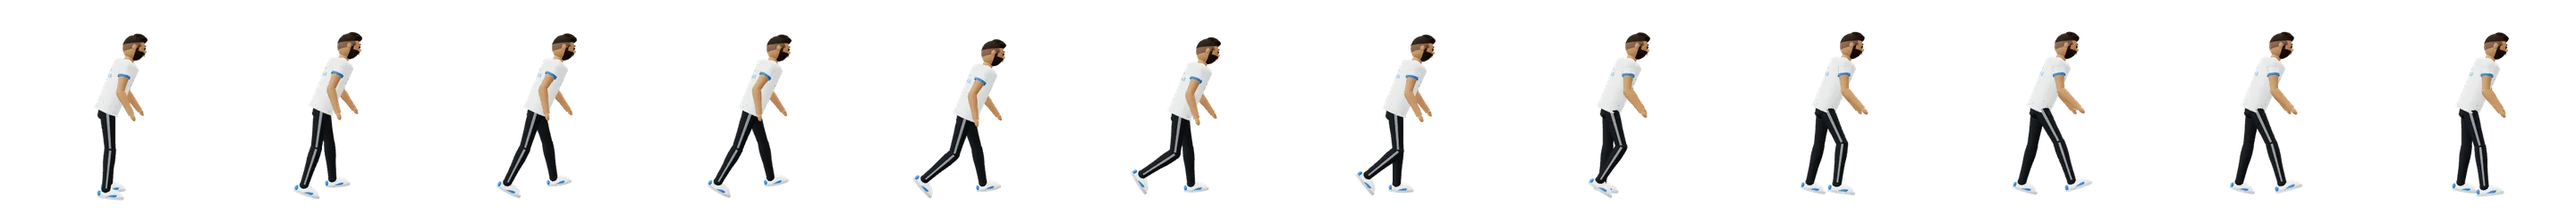
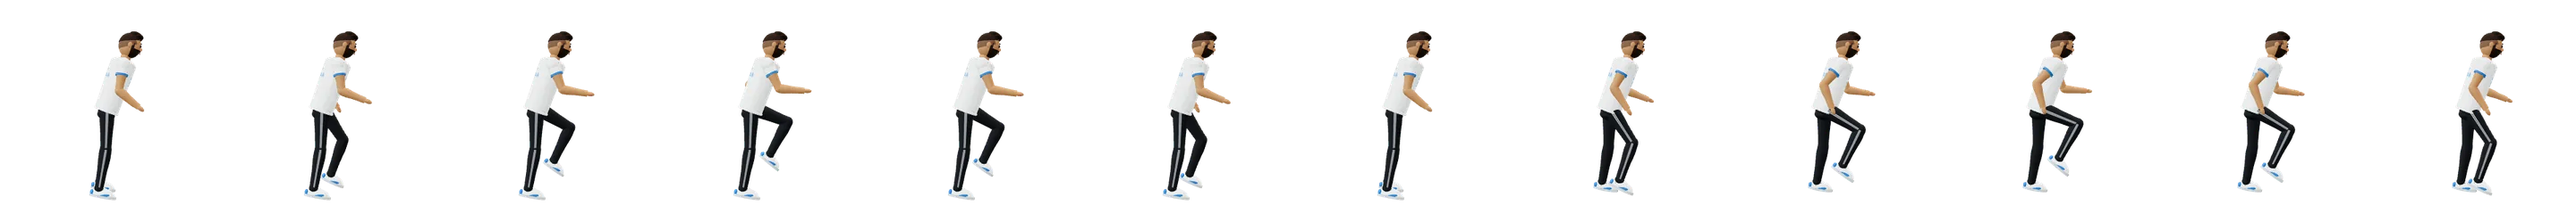
Animations : genou, Yass monte un escalier avec des éclairs au genou ; cheville, il saute à cloche-pied de pierre en pierre au-dessus de l'eau
Claude-Session: https://claude.ai/code/session_017mdRunWRMrWe8m5qyiqTu3

diff --git a/assets/js/kine-themes.js b/assets/js/kine-themes.js
@@ -287,8 +287,8 @@ var KineTheme = (function () {
   var SCENE = {
     coureur: { img: "course", n: 12, cyc: 0.42, dur: 1500, fx: "fire" },
     dos: { img: "mode-dos", n: 12, cyc: 1.15, dur: 2300, fx: "bolt", at: [0.42, 0.46] },
-    genou: { img: "mode-genou", n: 12, cyc: 0.95, dur: 2100, fx: "bolt", at: [0.47, 0.71] },
-    cheville: { img: "mode-cheville", n: 10, cyc: 0.55, dur: 1900, fx: "bolt", at: [0.34, 0.79] },
+    genou: { img: "mode-genou", n: 12, cyc: 0.9, dur: 2300, fx: "bolt", at: [0.55, 0.6], deco: "stairs" },
+    cheville: { img: "mode-cheville", n: 10, cyc: 0.55, dur: 2200, fx: "bolt", at: [0.34, 0.79], deco: "stones" },
     general: { img: "mode-general", n: 12, cyc: 0.8, dur: 1700, fx: "spark" }
   };
   function sceneFx(el, id) {
@@ -301,6 +301,40 @@ var KineTheme = (function () {
     cv.width = W * dpr; cv.height = H * dpr; c.scale(dpr, dpr);
     var S = Math.min(260, W * 0.66), y0 = H * 0.5 - S * 0.62, t0 = performance.now(), P = [], B = [], raf = 0, alive = true, lastBolt = 0;
     y.style.width = y.style.height = S + "px"; y.style.top = y0 + "px";
+    // genou : Yass monte un escalier (le geste qui réveille la douleur) ; cheville : il saute de pierre en pierre
+    var RISE = C.deco === "stairs" ? H * 0.26 : 0, yBase = C.deco === "stairs" ? y0 + RISE / 2 : y0, FOOT = 0.93;
+    function topAt(k) { return yBase - RISE * k; }
+    function kAtFoot(xf) { return Math.max(0, Math.min(1, (xf - S * 0.5 + S) / (W + 2 * S))); }
+    var stones = [];
+    if (C.deco === "stones") for (var q = 0; q < 12; q++) { var tl = (q + 0.75) * C.cyc * 1000 / C.dur; if (tl > 1) break; stones.push({ x: -S + (W + 2 * S) * tl + S * 0.5, t: tl, hit: false }); }
+    function decor(k, now) {
+      c.globalCompositeOperation = "source-over"; var fade = k > 0.82 ? Math.max(0, (1 - k) / 0.18) : 1;
+      if (C.deco === "stairs") {
+        var w = 48, M = MODE[id];
+        for (var sx = -w; sx < W + w; sx += w) {
+          var sy = topAt(kAtFoot(sx + w / 2)) + S * FOOT;
+          var g1 = c.createLinearGradient(0, sy, 0, H); g1.addColorStop(0, M.a); g1.addColorStop(1, M.b);
+          c.globalAlpha = 0.9 * fade; c.fillStyle = g1; c.fillRect(sx, sy, w + 1, H - sy);
+          c.globalAlpha = fade; c.fillStyle = "rgba(255,255,255,.55)"; c.fillRect(sx, sy, w + 1, 3);
+        }
+        c.globalAlpha = 1;
+      }
+      if (C.deco === "stones") {
+        c.globalAlpha = fade;
+        var wy = y0 + S * FOOT + 4, ph = now / 300;
+        var gw = c.createLinearGradient(0, wy - 10, 0, wy + 40); gw.addColorStop(0, "rgba(90,170,255,.55)"); gw.addColorStop(1, "rgba(40,110,220,.15)");
+        c.fillStyle = gw; c.beginPath(); c.moveTo(0, wy + 30);
+        for (var wx = 0; wx <= W; wx += 12) c.lineTo(wx, wy + Math.sin(wx / 30 + ph) * 3);
+        c.lineTo(W, wy + 40); c.lineTo(0, wy + 40); c.fill();
+        stones.forEach(function (st) {
+          var sink = st.hit ? 2 : 0;
+          if (!st.hit && k >= st.t) { st.hit = true; for (var d = 0; d < 10; d++) P.push({ x: st.x + (Math.random() - 0.5) * 40, y: wy, vx: (Math.random() - 0.5) * 3, vy: -(1 + Math.random() * 2.5), w: 0, r: 2 + Math.random() * 2.5, l: 1, d: 0.03, k: "w" }); }
+          var gs = c.createRadialGradient(st.x - 8, wy - 6 + sink, 2, st.x, wy + sink, 30); gs.addColorStop(0, "#C9C2B6"); gs.addColorStop(1, "#7D7468");
+          c.fillStyle = gs; c.beginPath(); c.ellipse(st.x, wy + sink, 30, 10, 0, 0, Math.PI * 2); c.fill();
+        });
+        c.globalAlpha = 1;
+      }
+    }
     function bolt(x, yy) {   // un éclair en zigzag qui part du point douloureux
       var a = Math.random() * Math.PI * 2, L = 26 + Math.random() * 34, pts = [[x, yy]], n = 5;
       for (var i = 1; i <= n; i++) { var d = L * i / n, j = (i < n ? (Math.random() - 0.5) * 16 : 0); pts.push([x + Math.cos(a) * d - Math.sin(a) * j, yy + Math.sin(a) * d + Math.cos(a) * j]); }
@@ -310,12 +344,13 @@ var KineTheme = (function () {
       if (!alive) return;
       var t = (now - t0) / C.dur, k = Math.min(1, t), x = -S + (W + 2 * S) * k;
       if (C.fx === "fire") x = -S + (W + 2 * S) * (k < 0.5 ? 2 * k * k * 0.6 + k * 0.4 : k);
-      y.style.transform = "translateX(" + x + "px)"; if (k >= 1) y.style.display = "none";
-      c.clearRect(0, 0, W, H);
+      var ty = C.deco === "stairs" ? topAt(k) - y0 : 0;
+      y.style.transform = "translate(" + x + "px," + ty + "px)"; if (k >= 1) y.style.display = "none";
+      c.clearRect(0, 0, W, H); if (k < 1) decor(k, now);
       if (C.fx === "fire" && t < 1.02) for (var n = 0; n < 8; n++) P.push({ x: x + S * (0.2 + Math.random() * 0.3), y: y0 + S * (0.8 + Math.random() * 0.14), vx: -(0.4 + Math.random() * 1.6), vy: -(1.2 + Math.random() * 3.2), w: Math.random() * 6.28, r: 5 + Math.random() * 11, l: 1, d: 0.014 + Math.random() * 0.02, k: "f" });
       if (C.fx === "spark" && t < 1.02) for (var m = 0; m < 3; m++) P.push({ x: x + S * (0.3 + Math.random() * 0.2), y: y0 + S * (0.3 + Math.random() * 0.6), vx: -(0.5 + Math.random()), vy: (Math.random() - 0.5) * 0.8, w: 0, r: 2 + Math.random() * 3.5, l: 1, d: 0.018 + Math.random() * 0.02, k: "s" });
       if (C.fx === "bolt" && t < 1) {
-        var ax = x + S * C.at[0], ay = y0 + S * C.at[1];
+        var ax = x + S * C.at[0], ay = y0 + ty + S * C.at[1];
         if (now - lastBolt > 85) { lastBolt = now; bolt(ax, ay); if (Math.random() < 0.6) bolt(ax, ay); }
         var pr = (now / 380) % 1;   // onde de douleur qui pulse
         c.globalCompositeOperation = "source-over";
@@ -325,10 +360,11 @@ var KineTheme = (function () {
       }
       c.globalCompositeOperation = "lighter";
       for (var i = P.length - 1; i >= 0; i--) {
-        var p = P[i]; p.w += 0.25; p.x += p.vx + (p.k === "f" ? Math.sin(p.w) * 0.8 : 0); p.y += p.vy; if (p.k === "f") p.vy -= 0.04; p.l -= p.d; p.r *= p.k === "f" ? 0.975 : 0.99;
+        var p = P[i]; p.w += 0.25; p.x += p.vx + (p.k === "f" ? Math.sin(p.w) * 0.8 : 0); p.y += p.vy; if (p.k === "f") p.vy -= 0.04; if (p.k === "w") p.vy += 0.15; p.l -= p.d; p.r *= p.k === "f" ? 0.975 : 0.99;
         if (p.l <= 0) { P.splice(i, 1); continue; }
         var g = c.createRadialGradient(p.x, p.y, 0, p.x, p.y, p.r * 2), a = p.l;
         if (p.k === "f") { g.addColorStop(0, p.l > 0.6 ? "rgba(255,240,170," + a + ")" : "rgba(255,170,60," + a + ")"); g.addColorStop(0.45, "rgba(255,110,30," + a * 0.75 + ")"); g.addColorStop(1, "rgba(220,30,40,0)"); }
+        else if (p.k === "w") { g.addColorStop(0, "rgba(230,245,255," + a + ")"); g.addColorStop(1, "rgba(90,170,255,0)"); }
         else { g.addColorStop(0, "rgba(255,255,255," + a + ")"); g.addColorStop(0.4, "rgba(120,140,255," + a * 0.8 + ")"); g.addColorStop(1, "rgba(80,100,255,0)"); }
         c.fillStyle = g; c.beginPath(); c.arc(p.x, p.y, p.r * 2, 0, Math.PI * 2); c.fill();
       }
